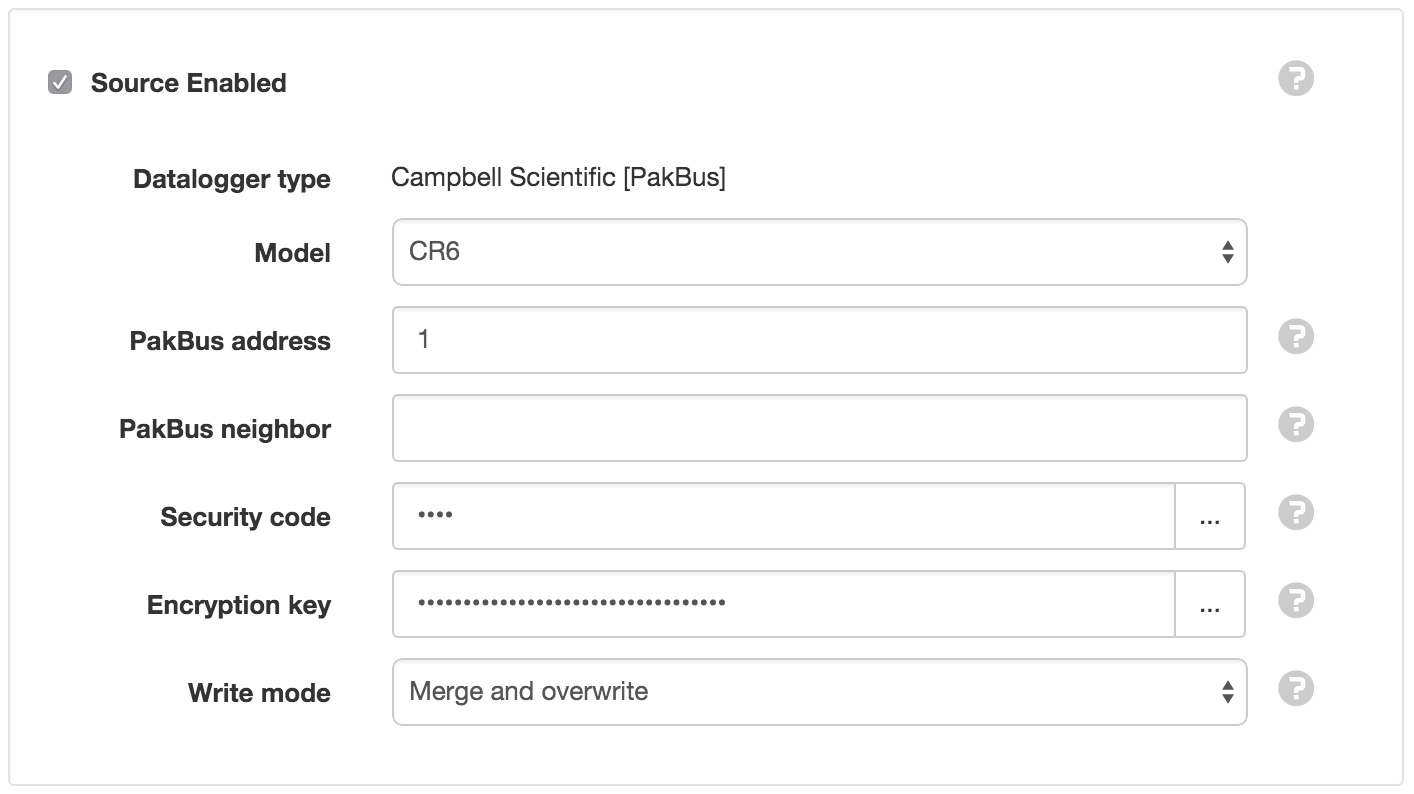
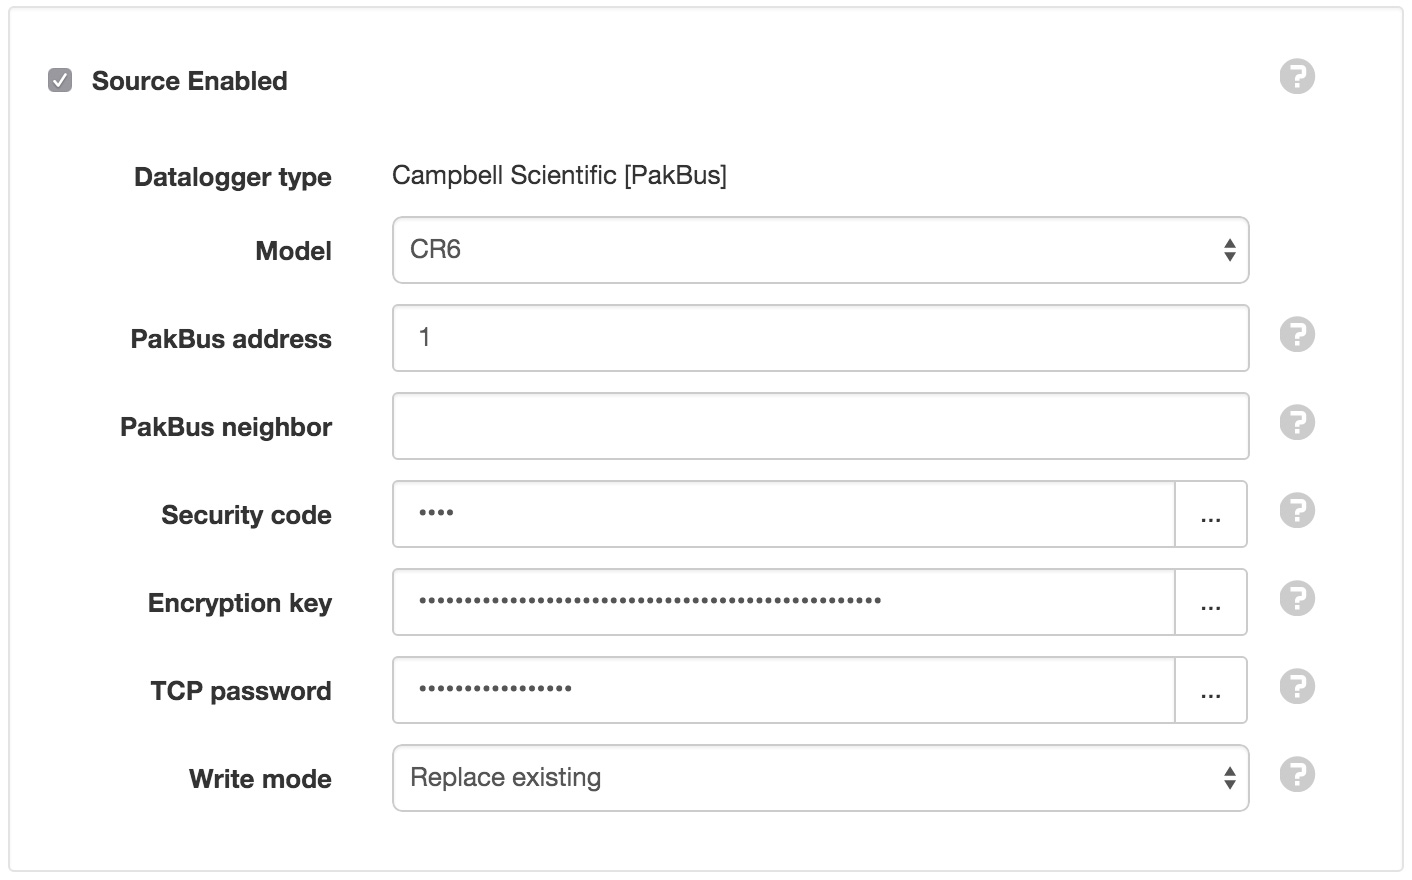
update Campbell PakBus Datasource with optional TCP password

diff --git a/source/topics/nodes/datasource_datalogger/index.rst b/source/topics/nodes/datasource_datalogger/index.rst
@@ -57,6 +57,9 @@ Data logger type
         Encryption key
             Optional PakBus encryption key pre-configured in data logger. Leave blank for none.
 
+        TCP password
+            Optional PakBus TCP password pre-configured in data logger. Leave blank for none.
+
     *WaterLog*
 
         Model
